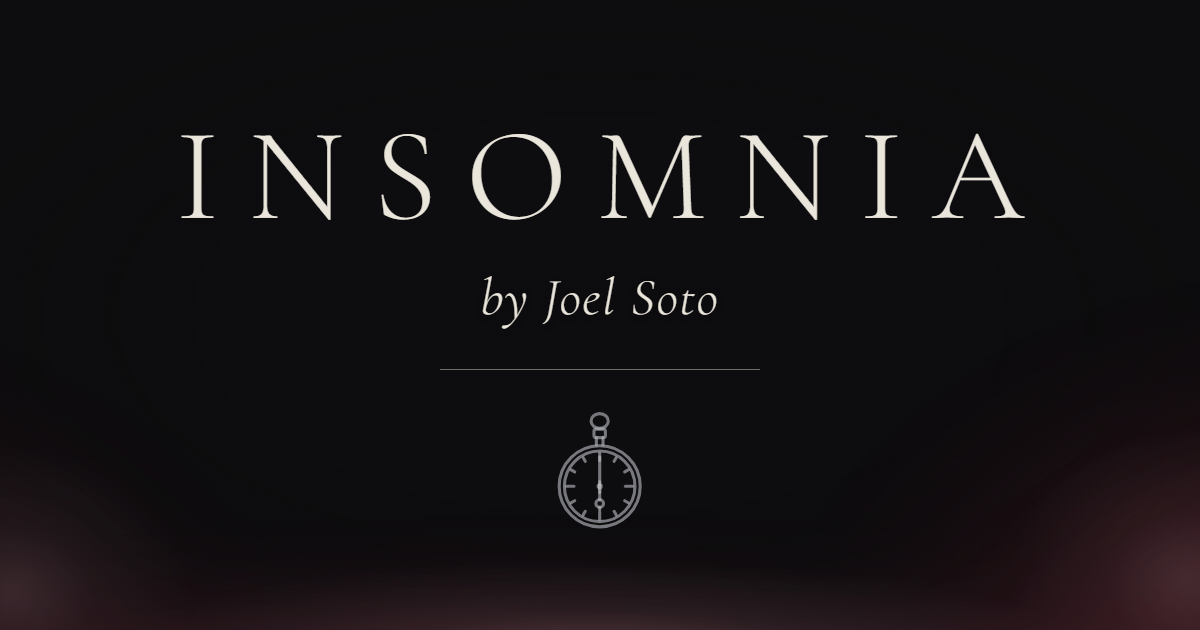
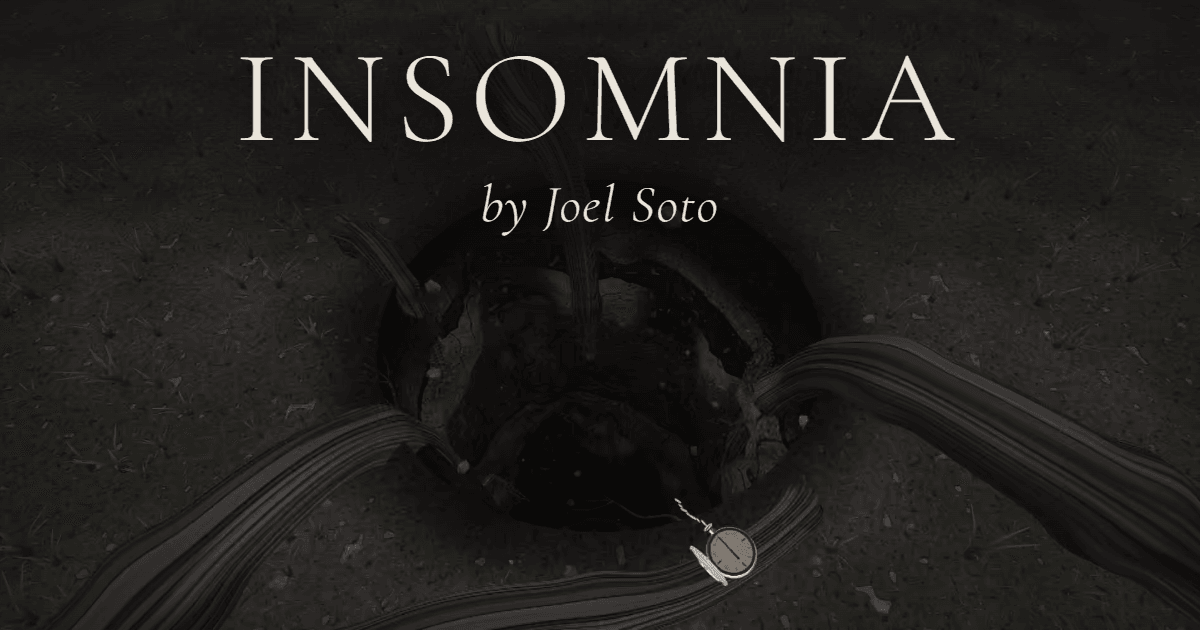
New share image

diff --git a/src/pages/brand/BrandAssetPage.tsx b/src/pages/brand/BrandAssetPage.tsx
@@ -5,7 +5,8 @@ import { useHead } from '../../hooks/useHead';
 import { useI18n } from '../../i18n';
 import { NotFoundPage } from '../NotFoundPage';
 import '../../features/home/byline.css';
-import '../../features/intro/IntroSplash.css';
+import '../../features/home/Hero.css';
+import '../../features/home/photo.css';
 import './BrandAssetPage.css';
 
 /*
@@ -13,9 +14,9 @@ import './BrandAssetPage.css';
  * browser (see README, "Share image and icons"); not linked, not indexed,
  * outside the site layout.
  *
- *   /brand-assets/og    1200 x 630: the intro itself (ink, the red mist low, the
- *                       name and by-line in the intro's type, the hairline, the
- *                       watch at 6:00), larger so it reads as a small preview.
+ *   /brand-assets/og    1200 x 630: the opening, shot 1 at the edge of the hole
+ *                       (the hero's still), with the name and by-line set larger
+ *                       and higher so they read in a small link preview.
  *   /brand-assets/icon  the pocket watch at 6:00 on ink, filling a square window;
  *                       ?stroke=<units> thickens the line for small sizes.
  */
@@ -34,17 +35,17 @@ export function BrandAssetPage() {
 
   if (asset === 'og') {
     return (
-      // No film grain: invisible at preview size, and the noise alone tripled the
-      // PNG (513 KB against 94 KB), past the ~300 KB some messaging apps accept.
-      <div className="intro-screen brand-og" aria-hidden="true">
-        <div className="intro-red-mist" />
-        <div className="atmo-vignette" />
-        <div className="intro-name">
-          <div className="intro-logo">{t.home.hero.title}</div>
-          <div className="intro-byline name-byline">{t.home.hero.sub}</div>
+      // The hero's own pieces: the shot 1 still, its vignette, the name over its
+      // dark hush. Only the name's place and size differ (BrandAssetPage.css).
+      <div className="hero-pin brand-og" aria-hidden="true">
+        <div className="hero-still" />
+        <div className="hero-vignette" />
+        <div className="hero-float">
+          <div className="hero-content">
+            <div className="hero-title">{t.home.hero.title}</div>
+            <div className="hero-sub name-byline">{t.home.hero.sub}</div>
+          </div>
         </div>
-        <span className="intro-line" />
-        <PocketWatch className="intro-watch" size={124} progress={0} doubleRim />
       </div>
     );
   }

diff --git a/index.html b/index.html
@@ -20,7 +20,7 @@
     <meta property="og:type" content="website" />
     <meta property="og:locale" content="es_CR" />
     <meta property="og:locale:alternate" content="en_US" />
-    <meta property="og:image" content="https://insomnia-js.onrender.com/og.png" />
+    <meta property="og:image" content="https://insomnia-js.onrender.com/og.png?v=2" />
     <meta property="og:image:type" content="image/png" />
     <meta property="og:image:width" content="1200" />
     <meta property="og:image:height" content="630" />
@@ -28,7 +28,7 @@
     <meta name="twitter:card" content="summary_large_image" />
     <meta name="twitter:title" content="Insomnia by Joel Soto" />
     <meta name="twitter:description" content="Todo lo que sientes cuando el mundo duerme." />
-    <meta name="twitter:image" content="https://insomnia-js.onrender.com/og.png" />
+    <meta name="twitter:image" content="https://insomnia-js.onrender.com/og.png?v=2" />
 
     <!-- Icons: the pocket watch (public/; sources at /icon-source/:size) -->
     <link rel="icon" href="/favicon.ico" sizes="32x32" />

diff --git a/src/pages/brand/BrandAssetPage.css b/src/pages/brand/BrandAssetPage.css
@@ -1,9 +1,19 @@
 /*
- * Brand asset sources (share image, icons). The share image is the intro at a
- * fixed 1200 x 630, scaled up so it stays legible as a small link preview; its
- * lines scale with the drawing (no fixed-pixel strokes) for the same reason.
+ * Brand asset sources (share image, icons). The share image is the hero's shot 1
+ * at a fixed 1200 x 630 with the name set at 132 px and the by-line at 52 px
+ * (about 22 and 11 px tall in a 300 px wide preview) and moved up above the hole.
  */
-.brand-og .intro-logo {
+.brand-og.hero-pin {
+  position: relative;
+  height: 100vh;
+  min-height: 0;
+}
+
+.brand-og .hero-float {
+  top: 5%;
+}
+
+.brand-og .hero-title {
   font-size: 132px;
 }
 
@@ -12,17 +22,6 @@
   font-size: 52px;
 }
 
-.brand-og .intro-line {
-  width: 320px;
-  margin-top: 1.4rem;
-}
-
-.brand-og .intro-watch {
-  height: 124px;
-  margin-top: 1.4rem;
-}
-
-.brand-og .motif *,
 .brand-icon .motif * {
   vector-effect: none;
 }

diff --git a/src/lib/head.ts b/src/lib/head.ts
@@ -11,8 +11,12 @@ import type { Lang } from '../i18n';
 /** The production origin: canonical and Open Graph URLs are absolute. */
 export const SITE_URL = 'https://insomnia-js.onrender.com';
 export const SITE_NAME = 'Insomnia by Joel Soto';
-/** 1200 x 630 share image (public/og.png; source route /og-image). */
-export const OG_IMAGE = `${SITE_URL}/og.png`;
+/**
+ * 1200 x 630 share image (public/og.png; source route /brand-assets/og). The
+ * version in the query makes link previews that cached an earlier image fetch it
+ * again: raise it (here and in index.html) whenever og.png changes.
+ */
+export const OG_IMAGE = `${SITE_URL}/og.png?v=2`;
 
 const OG_LOCALE: Record<Lang, string> = { es: 'es_CR', en: 'en_US' };
 

diff --git a/README.md b/README.md
@@ -27,7 +27,7 @@ The site continues the visual language of the earlier Black & White site (a blac
 - **Readings with a title morph.** An editorial index of three articles on the home page; each opens on its own page, its title morphing into the heading through same-document View Transitions, with a reading-progress hairline and a pocket watch that follow the text from 6:00 PM to 6:00 AM.
 - **T-shirt prints generated in code.** Ten typographic compositions, one per word (a crowd of strangers, a frame too tight, a letter out of place, a plot that knots), laid out from measured font metrics and kept print-safe (one colour, flat tints, no gradients). They render on a flat SVG tee that follows every configurator choice live: colour, print language, placement and the side shown.
 - **A living style guide.** An internal `/lab` page renders the palette with live WCAG contrast measurements, the type scale, the pocket watch at several times, the line-art motifs, the nine links, all ten T-shirt prints on both colours and in both languages, a flipping playing card and the atmosphere layers.
-- **Ready to share and fast to load.** Per-route titles, descriptions, canonical links, Open Graph and Twitter cards, JSON-LD, a sitemap, a share image rendered from the intro itself, a pocket-watch favicon that follows light and dark themes, self-hosted fonts with metric-matched fallbacks, a still of the scene as the first paint (AVIF, about 20 kB) that crossfades into the live 3D scene, and error boundaries so one failing part never blanks the page.
+- **Ready to share and fast to load.** Per-route titles, descriptions, canonical links, Open Graph and Twitter cards, JSON-LD, a sitemap, a share image rendered from the opening itself, a pocket-watch favicon that follows light and dark themes, self-hosted fonts with metric-matched fallbacks, a still of the scene as the first paint (AVIF, about 20 kB) that crossfades into the live 3D scene, and error boundaries so one failing part never blanks the page.
 - **Three.js pinned to 0.183.0**, the version the original chain was tuned on, so the port matches it exactly.
 
 ## Tech stack
@@ -103,7 +103,11 @@ The share image and the icons are rendered by the site itself, from the hidden r
 msedge --headless=new --hide-scrollbars --force-device-scale-factor=1 --window-size=1200,630 --virtual-time-budget=6000 --screenshot=og.png http://localhost:4173/brand-assets/og
 ```
 
-The icons use `/brand-assets/icon?stroke=<line width in drawing units>` at `--window-size=512,512` (0.75 for the 512 icon, 0.95 for 192 and the 180 Apple touch icon, 2.4 and 3.2 for the 32 and 16 favicon), downscaled from 512 (headless browsers will not size a window below about 500 px). `og.png` is stored as a palette PNG to keep it small. `favicon.svg` is drawn by hand from the watch and switches between ink and bone with the browser theme.
+The command can return before the file is written; a headless browser script that opens the same URL at 1200 x 630 and waits for the fonts works as well.
+
+The share image is the opening: shot 1 at the edge of the hole (the hero's still, its vignette and the name over its hush), with the name at 132 px and the by-line at 52 px so both read in a 300 px wide link preview. The screenshot is encoded as a 256-colour palette PNG (sharp: `png({ palette: true, quality: 90, colours: 256, dither: 1, effort: 10 })`, about 160 kB; messaging apps reject images much over 300 kB). Its URL carries a version (`og.png?v=2` in `index.html` and `OG_IMAGE` in `src/lib/head.ts`): raise it whenever the image changes, or link previews keep showing the cached one.
+
+The icons use `/brand-assets/icon?stroke=<line width in drawing units>` at `--window-size=512,512` (0.75 for the 512 icon, 0.95 for 192 and the 180 Apple touch icon, 2.4 and 3.2 for the 32 and 16 favicon), downscaled from 512 (headless browsers will not size a window below about 500 px). `favicon.svg` is drawn by hand from the watch and switches between ink and bone with the browser theme.
 
 ## Stills of the fall
 

diff --git a/CLAUDE.md b/CLAUDE.md
@@ -49,7 +49,7 @@ src/
   components/           ErrorBoundary (keeps a failing part from blanking the page)
   components/layout/    Layout (skip link, Header, <main>, Footer), Header, Footer, LanguageToggle
   pages/                route-level components: HomePage (composes features/home), ArticlePage (/lecturas/:slug, 404 for unknown slugs), NotFoundPage (the watch stopped at 3:47, noindex)
-    brand/              /brand-assets/og and /brand-assets/icon: sources of the share image and the icons (lazy, noindex, outside the layout)
+    brand/              /brand-assets/og (shot 1 with the name, from the hero's own pieces) and /brand-assets/icon: sources of the share image and the icons (lazy, noindex, outside the layout)
     lab/                /lab: internal visual lab (not linked, noindex, lazy-loaded): palette and measured contrast, type, pocket watch (header and intro sizes), motifs, the nine links, the ten T-shirt prints (front and back, both colours, both languages), card, atmosphere
   features/             one folder per feature
     chain/              the 3D scene: the fall, its objects and the steel chain (see "3D scene" below); engine/objects/ holds the objects of the fall, engine/piece/ the jewelry preview
@@ -304,7 +304,7 @@ Every animation must respect `prefers-reduced-motion`. The contract, inherited f
 - **Head tags** (`lib/head.ts`, `hooks/useHead.ts`): every route calls `useHead({ title, description, path, type, lang, noindex?, jsonLd? })`, which writes the title, description, canonical (`SITE_URL` + path), og:title/description/url/type/locale (es_CR with en_US as alternate, swapped in English), twitter:title/description, robots (noindex for the 404, /lab and /brand-assets) and the page's JSON-LD (`#ld-page`; the Article on article pages). Home: "Insomnia by Joel Soto" and `meta.description`.
 - **Static values:** `index.html` ships the Spanish home values (title, description, canonical, og:_, twitter:_, og:image with size and alt, theme-color, icons, manifest) and the Organization JSON-LD, so link previews and crawlers that do not run JavaScript see a complete page. Keep them in sync with the home route and `es.ts`.
 - **robots.txt / sitemap.xml** (`public/`): allow all, disallow /lab and /brand-assets; the sitemap lists / and the three articles. Add a new article's URL to the sitemap.
-- **Share image** (`public/og.png`, 1200 x 630, 103 KB, re-captured with the rose intro): rendered by `/brand-assets/og` (the intro's own markup and CSS, larger type, scaling strokes, no film grain: the grain tripled the file past what some messaging apps accept) and captured with headless Edge (see README, "Share image and icons"). Re-capture it after changing the intro.
+- **Share image** (`public/og.png`, 1200 x 630, 161 KB palette PNG, since step 16.5 the opening: shot 1 at the edge of the hole): rendered by `/brand-assets/og` from the hero's own pieces (the shot 1 still, its vignette, the name over its hush) with the name at 132 px and the by-line at 52 px, moved up above the hole, so both read in a 300 px wide preview (about 22 and 11 px tall); captured with headless Edge and stored as a palette PNG (see README, "Share image and icons"). Its URL carries a version (`og.png?v=2` in `index.html` and `OG_IMAGE` in `lib/head.ts`) so link previews fetch it again; raise it whenever the image changes. Re-capture it after changing shot 1 or its still.
 - **Icons:** `favicon.svg` (hand-made from the watch: heavier line, quarter ticks only, ink on light themes and bone on dark ones through `prefers-color-scheme` inside the SVG), `favicon.ico` (16 and 32, PNG inside), `apple-touch-icon.png` (180) and `icons/icon-192.png`, `icon-512.png` (the watch at 6:00 on ink, from `/brand-assets/icon?stroke=<units>`, rendered at 512 and downscaled), `site.webmanifest` (name, short_name "Insomnia", theme and background `#0d0c0e`).
 
 ## Deployment

diff --git a/docs/brand/design-direction.md b/docs/brand/design-direction.md
@@ -172,5 +172,5 @@ In the jewelry dialog the card opens as dealt. As soon as the visitor chooses a 
 ## Edges of the site (step 9)
 
 - 404: on ink, the pocket watch large and stopped at 3:47 in steel line art, "Esta hora no existe." / "This hour doesn't exist." in Cormorant italic, "Te perdiste en la niebla." / "You got lost in the mist." below, and the way home.
-- Share image (1200 x 630): the intro itself (ink, the rose mist low at the bottom, "INSOMNIA" with "by Joel Soto" in the intro's type, the hairline and the watch at 6:00), set larger so it reads as a small preview; no film grain.
+- Share image (1200 x 630): the opening, shot 1 at the edge of the hole (the hero's still: the dry ground, the roots of the tree, the watch on its root, the hole going down), with "INSOMNIA" and "by Joel Soto" set larger than in the hero and placed above the hole, over the same dark hush, so both read in a 300 px wide link preview (step 16.5; before, the share image was the intro over the rose mist).
 - Favicon: the pocket watch at 6:00 in line art, ink on light browser themes and bone on dark ones; the app icons show it in bone on ink.
